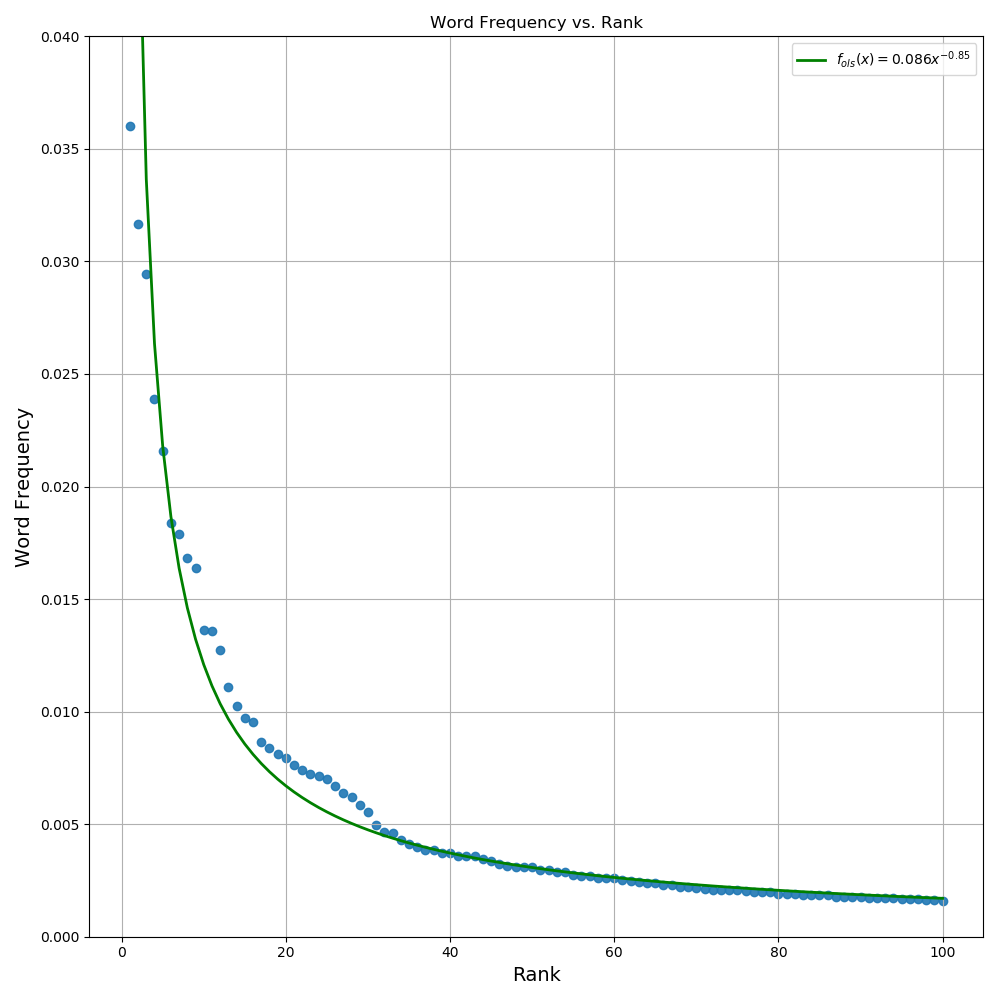
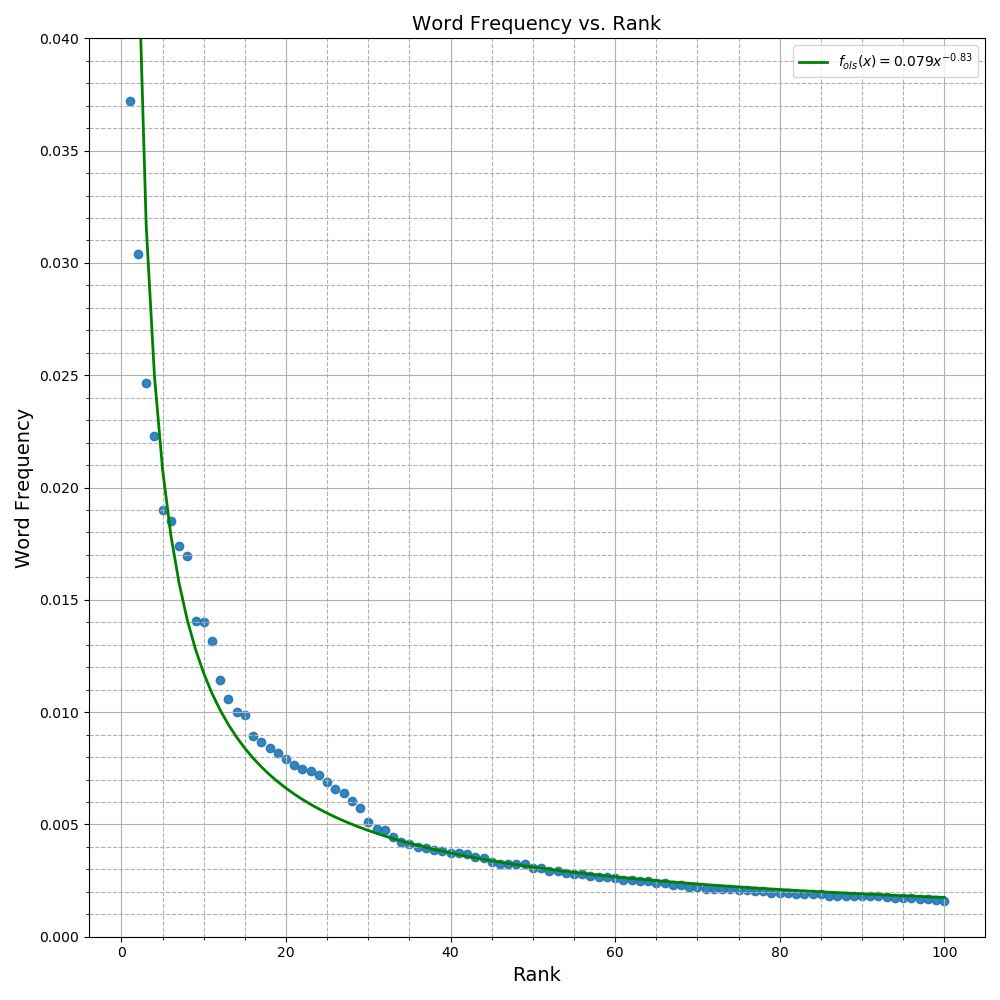
Update figures using full corpus frequency

diff --git a/_drafts/2019-09-30-gauss-newton.md b/_drafts/2019-09-30-gauss-newton.md
@@ -22,7 +22,7 @@ header:
 Fitting linear models using least squares is so ubiquitous you would be hard pressed to find a field in which it has not found application. A large part of the reason ordinary least squares (OLS) is so prevalent is that many simply aren't familiar with non-linear methods. Historically, solving nonlinear least squares (NLLS) problems was computationally expensive, but with modern computing power the barrier is less computation and moreso people's familarity with the methods. As we'll see in the following post, solving NLLS problems is just as simple as OLS.
 
 ## Zipf's Law
-Before moving on to the main focus of this post, it helps to have a concrete problem to motivate the material that follows. Consider modeling the frequency of a word's appearance in a corpus with vocabulary $$V$$, against its rank (by frequency). We start by downloading the text of Shakespeare's _Hamlet_ using python's `requests` library to get the raw html, then parsing out the raw text using `BeautifulSoup` as shown in the following script 
+Before moving on to the main focus of this post, it helps to have a concrete problem to motivate the material. Consider modeling the frequency of a word's appearance in a corpus with vocabulary $$V$$, against its rank (by frequency). For this example, I used the the text of Shakespeare's _Hamlet_ which was downloaded using python's `requests` library to get the raw html, then the raw text  was parsed out using `BeautifulSoup` as shown in the following script 
 
 {% highlight python %}
 import os
@@ -54,7 +54,7 @@ if __name__ == "__main__":
             f.writelines(output)
 {% endhighlight %}
 
-With this, we can easily write a function computing the frequencies of each word in the text. Python even has a specialised `dict` called `Counter` in the `collections` module that does almost exactly this.
+With the text downloaded this, we can easily write a function that computes the overall frequencies of each word in the text. Python even has a specialised `dict` called `Counter` in the `collections` module that does almost exactly this (except it gives raw counts instead of frequencies). Note that the words are naively split on space but a more specialised library for tokenisation like `nltk` might be better suited for this task.
 
 {% highlight python %}
 import os
@@ -151,7 +151,7 @@ $$
 
 The plots of the objective function above confirm it is convex quadratic with a unique minimum. From the plot we can see the minimum is achieved in the region where $$\log K\approx -2.5$$  and $$\alpha\approx -0.85$$. Using python's `scipy.optimize` module to fit a linear model on the Hamlet data gives
 
-$$f_{OLS}(r) = 0.086 r^{-0.85}$$
+$$f_{OLS}(r) = 0.079 r^{-0.83}$$
 
 {% highlight python %}
 import numpy as np
